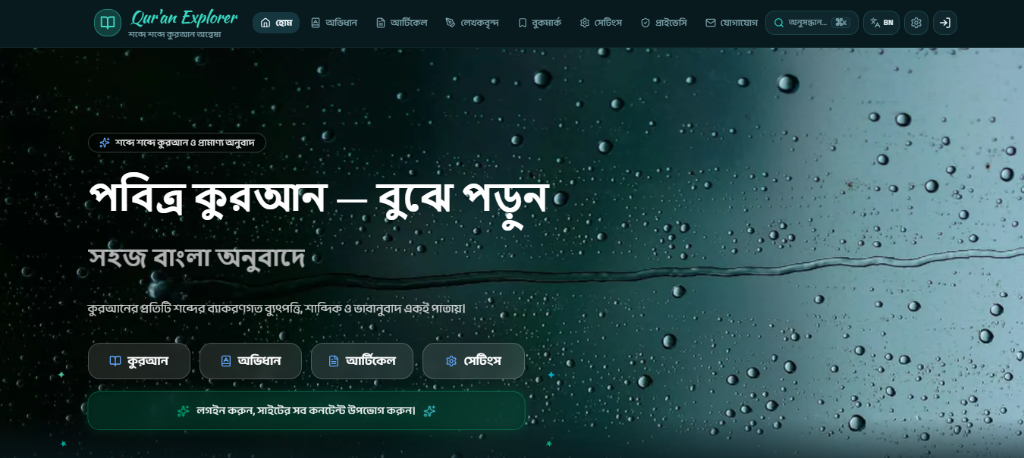
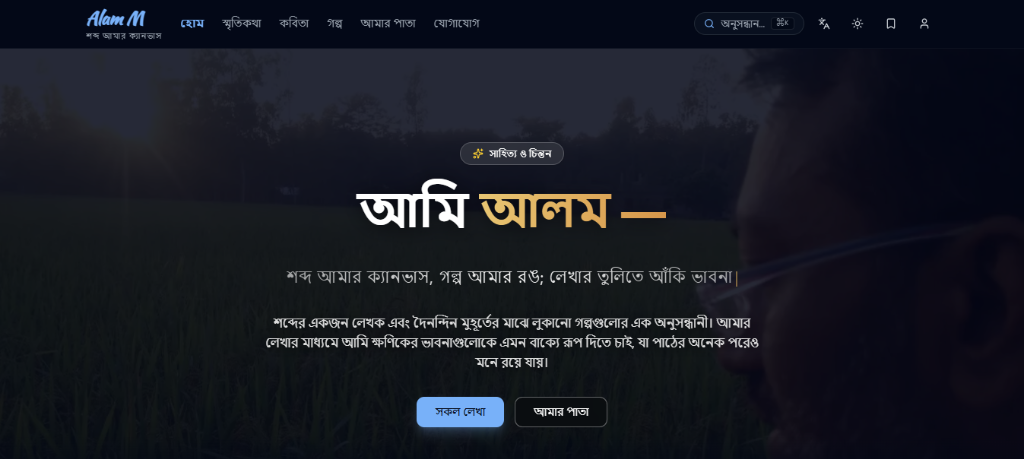
feat(og-image): use high-res homepage hero image for social share cards across all pages and articles

diff --git a/src/lib/slugHelper.ts b/src/lib/slugHelper.ts
@@ -1,0 +1,242 @@
+/**
+ * বাংলা শিরোনাম থেকে অর্থপূর্ণ ও পরিষ্কার ইংরেজি ফোনেটিক স্লাগ (Slug / Permalink) তৈরির ইঞ্জিন
+ * যেমন: "দুইবার মৃত্যু এবং দুইবার জীবন" -> "duibar-mrityu-ebong-duibar-jibon"
+ */
+
+const CONJUNCTS: [RegExp, string][] = [
+  [/মৃত্যু/g, "mrityu"],
+  [/স্মৃতি/g, "smriti"],
+  [/কুরআন/g, "quran"],
+  [/কোরআন/g, "quran"],
+  [/আল্লাহ/g, "allah"],
+  [/রসুল|রাসুল/g, "rasul"],
+  [/নবী/g, "nobi"],
+  [/হাদিস/g, "hadith"],
+  [/বিজ্ঞান/g, "biggan"],
+  [/জীবন/g, "jibon"],
+  [/মানুষ/g, "manush"],
+  [/পৃথিবী/g, "prithibi"],
+  [/আকাশ/g, "akash"],
+  [/চন্দ্র/g, "chondro"],
+  [/সূর্য|সুর্য/g, "surjo"],
+  [/নক্ষত্র/g, "nokkhotro"],
+  [/সৃষ্টি/g, "srishti"],
+  [/ইতিহাস/g, "itihas"],
+  [/গল্প/g, "golpo"],
+  [/কবিতা/g, "kobita"],
+  [/উপন্যাস/g, "uponnash"],
+  [/প্রবন্ধ/g, "probondho"],
+  [/স্মৃতিকথা/g, "smritikotha"],
+  [/স্ট্যাটাস/g, "status"],
+  [/খসড়া|খসড়া/g, "khosra"],
+  [/এবং/g, "ebong"],
+  [/অথবা/g, "othoba"],
+  [/কিন্তু/g, "kintu"],
+  [/কারণ/g, "karon"],
+  [/ক্ষ/g, "kkh"],
+  [/জ্ঞ/g, "gg"],
+  [/ঞ্চ/g, "nch"],
+  [/ঞ্ছ/g, "nchh"],
+  [/ঞ্জ/g, "nj"],
+  [/ষ্ট/g, "sht"],
+  [/ষ্ঠ/g, "shth"],
+  [/স্ত/g, "st"],
+  [/স্থ/g, "sth"],
+  [/ষ্ণ/g, "shn"],
+  [/হ্ম/g, "hm"],
+  [/ম্প/g, "mp"],
+  [/ম্ব/g, "mb"],
+  [/ম্ভ/g, "mbh"],
+  [/ন্দ/g, "nd"],
+  [/ন্ধ/g, "ndh"],
+  [/ন্ত/g, "nt"],
+  [/ন্থ/g, "nth"],
+  [/স্প/g, "sp"],
+  [/স্ফ/g, "sph"],
+  [/স্ট/g, "st"],
+  [/ঙ্ক/g, "nk"],
+  [/ঙ্গ/g, "ng"],
+  [/ল্ক/g, "lk"],
+  [/ল্গ/g, "lg"],
+  [/ল্ট/g, "lt"],
+  [/ল্ড/g, "ld"],
+  [/ল্প/g, "lp"],
+  [/ল্ফ/g, "lph"],
+  [/ল্ব/g, "lb"],
+  [/ল্ম/g, "lm"],
+  [/ল্ল/g, "ll"],
+  [/ব্ধ/g, "bdh"],
+  [/ব্দ/g, "bd"],
+  [/ব্জ/g, "bj"],
+  [/ব্ব/g, "bb"],
+  [/প্ত/g, "pt"],
+  [/প্স/g, "ps"],
+  [/প্ন/g, "pn"],
+  [/প্প/g, "pp"],
+  [/দ্ব/g, "dw"],
+  [/দ্ম/g, "ddm"],
+  [/দ্দ/g, "dd"],
+  [/দ্ধ/g, "ddh"],
+  [/ত্ম/g, "ttm"],
+  [/ত্ত/g, "tt"],
+  [/ত্থ/g, "tth"],
+  [/চ্ছ/g, "cch"],
+  [/চ্চ/g, "cc"],
+  [/জ্জ/g, "jj"],
+  [/শ্র/g, "shr"],
+  [/শ্ব/g, "shw"],
+  [/শ্ম/g, "shm"],
+  [/শ্ন/g, "shn"],
+  [/শ্ল/g, "shl"],
+  [/স্ক্র/g, "skr"],
+  [/স্ক/g, "sk"],
+  [/স্খ/g, "skh"],
+  [/স্ন/g, "sn"],
+  [/স্ব/g, "sw"],
+  [/স্ম/g, "sm"],
+  [/স্ল/g, "sl"],
+  [/ত্র/g, "tr"],
+  [/প্র/g, "pr"],
+  [/গ্র/g, "gr"],
+  [/ব্র/g, "br"],
+  [/দ্র/g, "dr"],
+  [/ধ্র/g, "dhr"],
+  [/ক্র/g, "kr"],
+  [/ভ্র/g, "bhr"],
+  [/মর/g, "mr"],
+  [/হ্র/g, "hr"],
+  [/র্য/g, "ry"],
+];
+
+const VOWEL_SIGNS: [RegExp, string][] = [
+  [/া/g, "a"],
+  [/ি/g, "i"],
+  [/ী/g, "i"],
+  [/ু/g, "u"],
+  [/ূ/g, "u"],
+  [/ৃ/g, "ri"],
+  [/ে/g, "e"],
+  [/ৈ/g, "oi"],
+  [/ো/g, "o"],
+  [/ৌ/g, "ou"],
+  [/্/g, ""],
+  [/ৎ/g, "t"],
+  [/ং/g, "ng"],
+  [/ঃ/g, "h"],
+  [/ঁ/g, ""],
+];
+
+const VOWELS: [RegExp, string][] = [
+  [/অ/g, "o"],
+  [/আ/g, "a"],
+  [/ই/g, "i"],
+  [/ঈ/g, "i"],
+  [/উ/g, "u"],
+  [/ঊ/g, "u"],
+  [/ঋ/g, "ri"],
+  [/এ/g, "e"],
+  [/ঐ/g, "oi"],
+  [/ও/g, "o"],
+  [/ঔ/g, "ou"],
+];
+
+const CONSONANTS: [RegExp, string][] = [
+  [/ক/g, "k"],
+  [/খ/g, "kh"],
+  [/গ/g, "g"],
+  [/ঘ/g, "gh"],
+  [/ঙ/g, "ng"],
+  [/চ/g, "ch"],
+  [/ছ/g, "chh"],
+  [/জ/g, "j"],
+  [/ঝ/g, "jh"],
+  [/ঞ/g, "n"],
+  [/ট/g, "t"],
+  [/ঠ/g, "th"],
+  [/ড/g, "d"],
+  [/ঢ/g, "dh"],
+  [/ণ/g, "n"],
+  [/ত/g, "t"],
+  [/থ/g, "th"],
+  [/দ/g, "d"],
+  [/ধ/g, "dh"],
+  [/ন/g, "n"],
+  [/প/g, "p"],
+  [/ফ/g, "f"],
+  [/ব/g, "b"],
+  [/ভ/g, "bh"],
+  [/ম/g, "m"],
+  [/য/g, "j"],
+  [/র/g, "r"],
+  [/ল/g, "l"],
+  [/শ/g, "sh"],
+  [/ষ/g, "sh"],
+  [/স/g, "s"],
+  [/হ/g, "h"],
+  [/ড়/g, "r"],
+  [/ঢ়/g, "rh"],
+  [/য়/g, "y"],
+  [/ৎ/g, "t"],
+];
+
+const NUMBERS: [RegExp, string][] = [
+  [/০/g, "0"],
+  [/১/g, "1"],
+  [/২/g, "2"],
+  [/৩/g, "3"],
+  [/৪/g, "4"],
+  [/৫/g, "5"],
+  [/৬/g, "6"],
+  [/৭/g, "7"],
+  [/৮/g, "8"],
+  [/৯/g, "9"],
+];
+
+export function bnToEnSlug(rawText: string, fallback = ""): string {
+  if (!rawText || typeof rawText !== "string") {
+    return fallback ? `post-${fallback}` : `post-${Date.now().toString().slice(-4)}`;
+  }
+
+  let text = rawText.trim();
+
+  // ১. যুক্তাক্ষর প্রতিস্থাপন
+  for (const [pattern, rep] of CONJUNCTS) {
+    text = text.replace(pattern, rep);
+  }
+
+  // ২. কার চিহ্ন প্রতিস্থাপন
+  for (const [pattern, rep] of VOWEL_SIGNS) {
+    text = text.replace(pattern, rep);
+  }
+
+  // ৩. স্বরবর্ণ প্রতিস্থাপন
+  for (const [pattern, rep] of VOWELS) {
+    text = text.replace(pattern, rep);
+  }
+
+  // ৪. ব্যঞ্জনবর্ণ প্রতিস্থাপন
+  for (const [pattern, rep] of CONSONANTS) {
+    text = text.replace(pattern, rep);
+  }
+
+  // ৫. সংখ্যা প্রতিস্থাপন
+  for (const [pattern, rep] of NUMBERS) {
+    text = text.replace(pattern, rep);
+  }
+
+  // ৬. ক্লিন স্লাগ ফরম্যাটিং (lowercase, alphanumerics and hyphens only)
+  const clean = text
+    .toLowerCase()
+    .replace(/[^a-z0-9\s-]/g, "")
+    .trim()
+    .replace(/\s+/g, "-")
+    .replace(/-+/g, "-")
+    .replace(/^-+|-+$/g, "")
+    .slice(0, 100);
+
+  if (!clean || clean.length < 2) {
+    return fallback ? `post-${fallback}` : `post-${Date.now().toString().slice(-4)}`;
+  }
+
+  return clean;
+}

diff --git a/src/routes/articles.$slug.tsx b/src/routes/articles.$slug.tsx
@@ -45,6 +45,44 @@ import {
 } from "@/components/AntiSpamCaptcha";
 
 export const Route = createFileRoute("/articles/$slug")({
+  loader: async ({ params }) => {
+    const rawSlug = (params as Record<string, string>)["slug"] || "";
+    const slug = decodeURIComponent(rawSlug).trim();
+    if (!slug) return { article: null };
+
+    const { data: art } = await supabase
+      .from("articles")
+      .select("id, slug, title_bn, title_en, excerpt_bn, excerpt_en, cover_image_url, published_at")
+      .eq("slug", slug)
+      .maybeSingle();
+
+    return { article: art };
+  },
+  head: ({ loaderData }) => {
+    const art = loaderData?.article;
+    const title = art?.title_bn ? `${art.title_bn} — Alam M` : "Alam M — শব্দ আমার ক্যানভাস";
+    const description = art?.excerpt_bn || "গল্প, কবিতা, স্মৃতিকথা ও চিন্তাভাবনা নিয়ে ব্যক্তিগত সাহিত্যিক ব্লগ।";
+    const image = art?.cover_image_url || "https://a.wooniche.com/og-image.png";
+
+    return {
+      meta: [
+        { title },
+        { name: "description", content: description },
+        { property: "og:type", content: "article" },
+        { property: "og:title", content: title },
+        { property: "og:description", content: description },
+        { property: "og:image", content: image },
+        { property: "og:image:secure_url", content: image },
+        { property: "og:image:type", content: "image/png" },
+        { property: "og:image:width", content: "1200" },
+        { property: "og:image:height", content: "630" },
+        { name: "twitter:card", content: "summary_large_image" },
+        { name: "twitter:title", content: title },
+        { name: "twitter:description", content: description },
+        { name: "twitter:image", content: image },
+      ],
+    };
+  },
   component: ArticlePage,
 });
 

diff --git a/src/routes/__root.tsx b/src/routes/__root.tsx
@@ -97,16 +97,16 @@ export const Route = createRootRouteWithContext<{ queryClient: QueryClient }>()(
         property: "og:description",
         content: "গল্প, কবিতা, স্মৃতিকথা ও চিন্তাভাবনা নিয়ে ব্যক্তিগত সাহিত্যিক ব্লগ।",
       },
-      { property: "og:image", content: "https://a.wooniche.com/og-image.jpg" },
-      { property: "og:image:secure_url", content: "https://a.wooniche.com/og-image.jpg" },
-      { property: "og:image:type", content: "image/jpeg" },
+      { property: "og:image", content: "https://a.wooniche.com/og-image.png" },
+      { property: "og:image:secure_url", content: "https://a.wooniche.com/og-image.png" },
+      { property: "og:image:type", content: "image/png" },
       { property: "og:image:width", content: "1200" },
       { property: "og:image:height", content: "630" },
       { property: "og:image:alt", content: "Alam M — শব্দ আমার ক্যানভাস" },
       { name: "twitter:card", content: "summary_large_image" },
       { name: "twitter:title", content: "Alam M — শব্দ আমার ক্যানভাস" },
       { name: "twitter:description", content: "গল্প, কবিতা, স্মৃতিকথা ও চিন্তাভাবনা নিয়ে ব্যক্তিগত সাহিত্যিক ব্লগ।" },
-      { name: "twitter:image", content: "https://a.wooniche.com/og-image.jpg" },
+      { name: "twitter:image", content: "https://a.wooniche.com/og-image.png" },
       { name: "theme-color", content: "#050b14" },
     ],
     links: [

diff --git a/src/routes/articles.index.tsx b/src/routes/articles.index.tsx
@@ -20,11 +20,19 @@ export const Route = createFileRoute("/articles/")({
         name: "description",
         content: "গল্প, কবিতা, স্মৃতিকথা ও ভাবনা নিয়ে নিয়মিত প্রকাশনা।",
       },
+      { property: "og:type", content: "website" },
       { property: "og:title", content: "লেখালেখি — Alam M" },
       {
         property: "og:description",
         content: "গল্প, কবিতা, স্মৃতিকথা ও ভাবনা নিয়ে নিয়মিত প্রকাশনা।",
       },
+      { property: "og:image", content: "https://a.wooniche.com/og-image.png" },
+      { property: "og:image:secure_url", content: "https://a.wooniche.com/og-image.png" },
+      { property: "og:image:type", content: "image/png" },
+      { property: "og:image:width", content: "1200" },
+      { property: "og:image:height", content: "630" },
+      { name: "twitter:card", content: "summary_large_image" },
+      { name: "twitter:image", content: "https://a.wooniche.com/og-image.png" },
     ],
   }),
   component: ArticlesPage,

diff --git a/src/routes/contact.tsx b/src/routes/contact.tsx
@@ -22,9 +22,15 @@ export const Route = createFileRoute("/contact")({
         content: "লেখক আলমের সাথে যোগাযোগ করুন — প্রশ্ন, মতামত বা কাজের প্রস্তাব পাঠান।",
       },
       { property: "og:type", content: "website" },
-      { name: "twitter:card", content: "summary_large_image" },
       { property: "og:title", content: "যোগাযোগ — Alam M" },
       { property: "og:description", content: "প্রশ্ন, মতামত বা কাজের প্রস্তাব পাঠান।" },
+      { property: "og:image", content: "https://a.wooniche.com/og-image.png" },
+      { property: "og:image:secure_url", content: "https://a.wooniche.com/og-image.png" },
+      { property: "og:image:type", content: "image/png" },
+      { property: "og:image:width", content: "1200" },
+      { property: "og:image:height", content: "630" },
+      { name: "twitter:card", content: "summary_large_image" },
+      { name: "twitter:image", content: "https://a.wooniche.com/og-image.png" },
     ],
   }),
   component: ContactPage,

diff --git a/src/routes/index.tsx b/src/routes/index.tsx
@@ -22,7 +22,13 @@ export const Route = createFileRoute("/")({
         property: "og:description",
         content: "গল্প, কবিতা, স্মৃতিকথা ও চিন্তাভাবনা নিয়ে ব্যক্তিগত সাহিত্যিক ব্লগ।",
       },
-      { property: "og:image", content: "/android-chrome-512x512.png" },
+      { property: "og:image", content: "https://a.wooniche.com/og-image.png" },
+      { property: "og:image:secure_url", content: "https://a.wooniche.com/og-image.png" },
+      { property: "og:image:type", content: "image/png" },
+      { property: "og:image:width", content: "1200" },
+      { property: "og:image:height", content: "630" },
+      { name: "twitter:card", content: "summary_large_image" },
+      { name: "twitter:image", content: "https://a.wooniche.com/og-image.png" },
     ],
   }),
   component: HomePage,

diff --git a/src/routes/about.tsx b/src/routes/about.tsx
@@ -17,6 +17,12 @@ export const Route = createFileRoute("/about")({
       { name: "twitter:card", content: "summary_large_image" },
       { property: "og:title", content: "আমার পাতা — Alam M" },
       { property: "og:description", content: "আমি আলম। শব্দের ভাঁজে ভাঁজে লুকিয়ে থাকা গল্পগুলোর সন্ধানী।" },
+      { property: "og:image", content: "https://a.wooniche.com/og-image.png" },
+      { property: "og:image:secure_url", content: "https://a.wooniche.com/og-image.png" },
+      { property: "og:image:type", content: "image/png" },
+      { property: "og:image:width", content: "1200" },
+      { property: "og:image:height", content: "630" },
+      { name: "twitter:image", content: "https://a.wooniche.com/og-image.png" },
     ],
   }),
   component: AboutPage,
